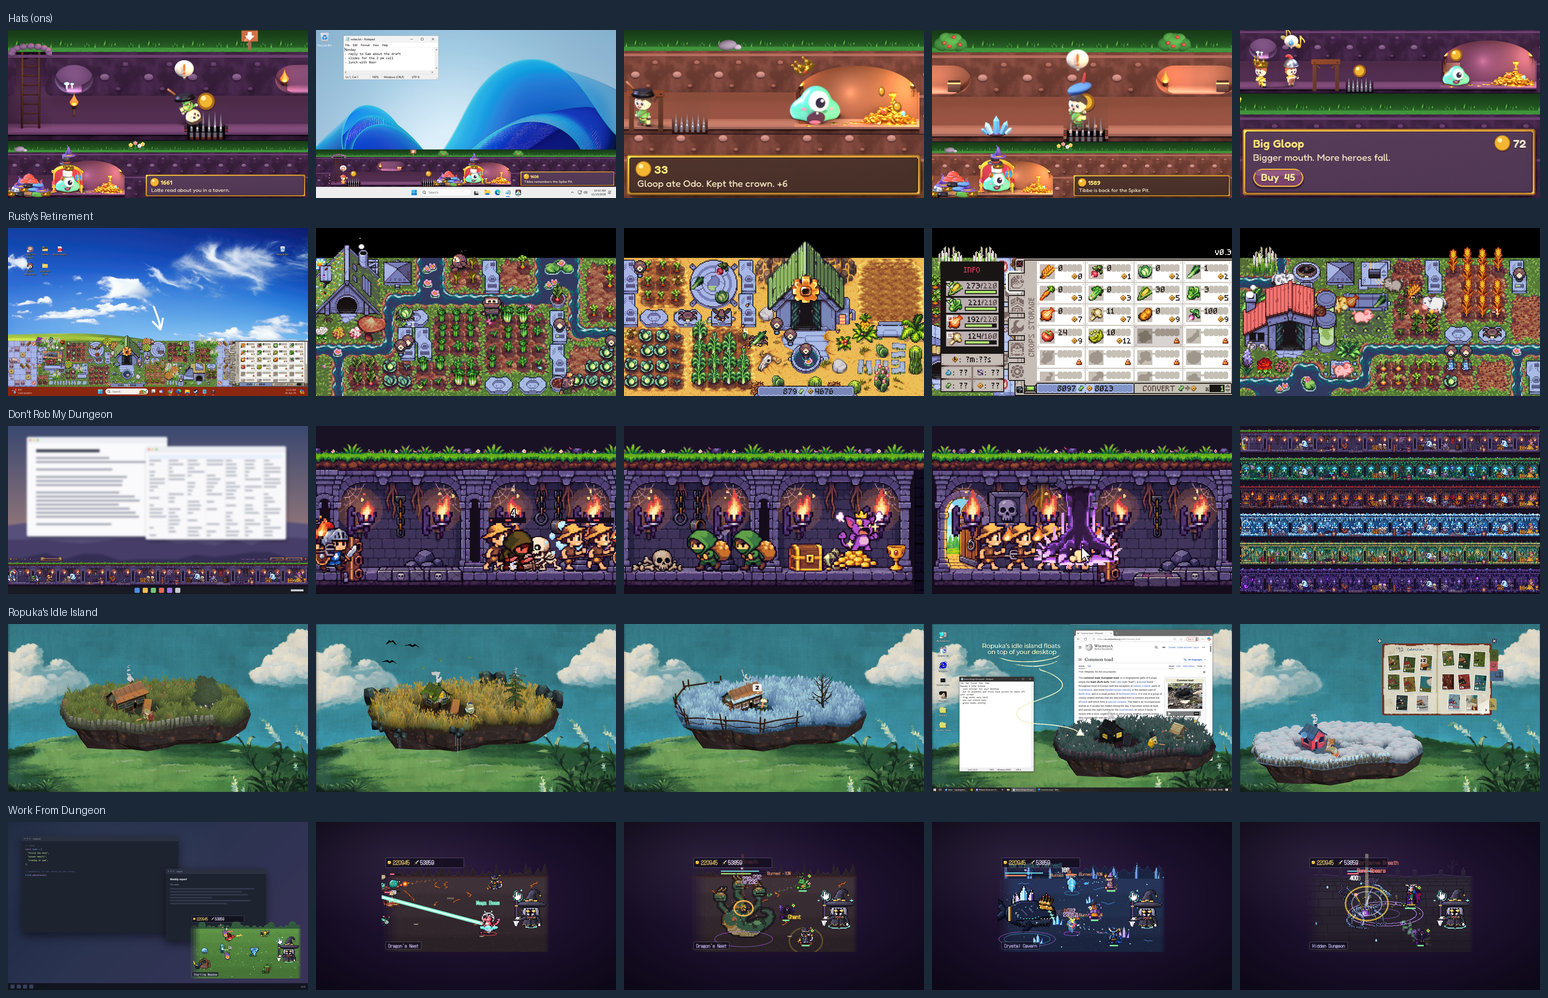
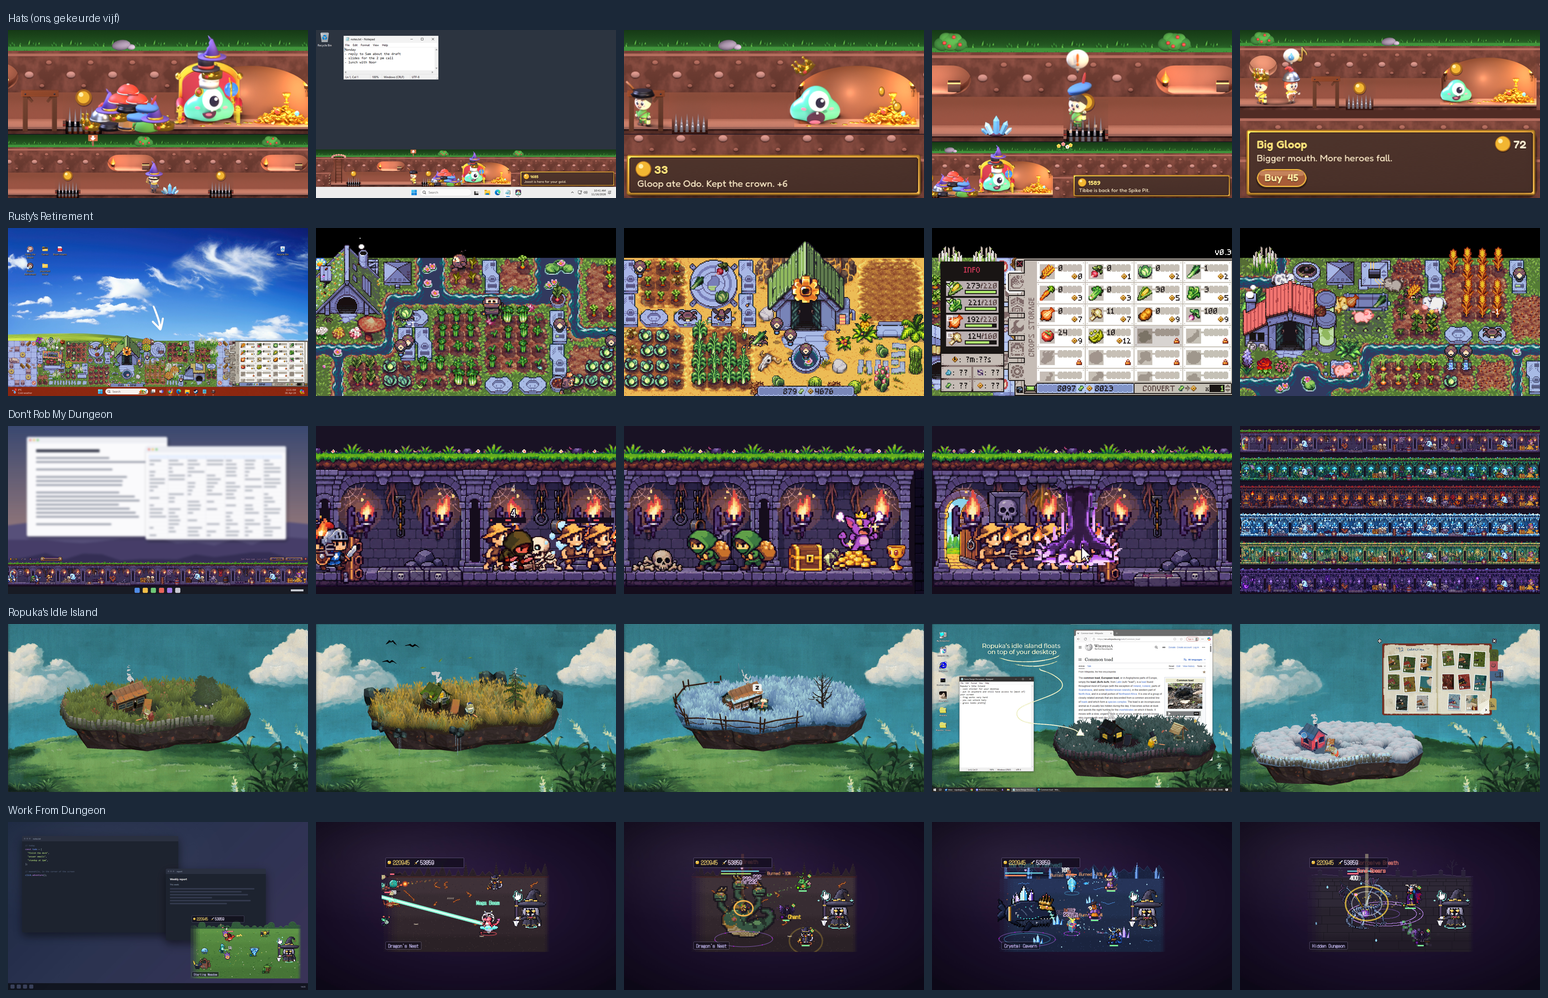
Daan: correctie eindkeuring Steam-schermen (juiste vijf, akkoord ja), map schermen-steam met de vijf op volgorde
Claude-Session: https://claude.ai/code/session_01RMWUygnUCNTSPRnk8imp6S

Changed region(s): [[0.0, 0.0, 0.4031, 0.2174], [0.7752, 0.0311, 1.0, 0.2174]]

diff --git a/berichten/mila.md b/berichten/mila.md
@@ -3,7 +3,8 @@
 Thijs zet hier (via de projectchat of hoofdchat) opdrachten en wensen neer. Lees dit bestand als eerste bij elke run.
 - Nieuwste bovenaan. Een open bericht gaat voor op je takenlijst, tenzij het de regels breekt.
 - Klaar of verwerkt? Zet er "(verwerkt <datum>: wat je deed)" achter. Verwijder niets.
-- **16 nov ±20:45 UTC (van Daan): eindkeuring vijf schermen naast de toppers: ja, één moet.** Scherm 2 (en de trailer): de Windows 11-bloem eruit, eigen rustige donkere bureaubladkleur, Edge en Verkenner uit de taakbalk als dat kan. Kan: de naad op ±y 668 in de hap wegwerken. Alles in `ontwerp/steam/winkelpagina/keuring-daan.md` (eindkeuring 16 nov 20:45); rij `vergelijk-vijf-schermen-toppers-300.png`. Voorwaarde: tekst van Thijs; wijkt die af, dan dezelfde sneden uit een nieuwe opname.
+- **16 nov ±20:50 UTC (van Daan), vervangt mijn bericht van 20:45 eronder: vijf schermen akkoord, geen moet.** Ik had de oude `scherm-1/2/4` gepakt; met de gekeurde vijf is de bloem al weg. Ik zette de vijf op volgorde in `ontwerp/steam/winkelpagina/schermen-steam/` (1 tot 5, kopieën, LEESMIJ): upload alleen daaruit. Kan: de naad op ±y 668 in de hap; vervang je hem, zet hem dan ook in `schermen-steam/3-hap.png`. Voorwaarde: tekst van Thijs.
+- **16 nov ±20:45 UTC (van Daan): eindkeuring vijf schermen naast de toppers: ja, één moet (VERVALLEN, zie 20:50).** Scherm 2 (en de trailer): de Windows 11-bloem eruit, eigen rustige donkere bureaubladkleur, Edge en Verkenner uit de taakbalk als dat kan. Kan: de naad op ±y 668 in de hap wegwerken. Alles in `ontwerp/steam/winkelpagina/keuring-daan.md` (eindkeuring 16 nov 20:45); rij `vergelijk-vijf-schermen-toppers-300.png`. Voorwaarde: tekst van Thijs; wijkt die af, dan dezelfde sneden uit een nieuwe opname.
 - **16 nov ±20:35 UTC (van Daan): ronde 7c en trailer-kaart B gezien, geen fout.** GEZIEN met Read: `voor-na-klein-ronde7c.png` (ook grijs): de ridder staat nu op zijn laarzen, los van Gloop, en leest als poppetje; titel vrij. Goed dat je het extra licht weer weghaalde. Trailer-kaart B (pijl naar de strook) ja, de pijl wijst precies naar het hol en de taakbalk staat in beeld, dus mijn eis is gehaald. Eén kan voor de echte trailer: neem een eigen rustige achtergrond in plaats van de Windows 11-bloem; dat is een beeld van Microsoft en hij trekt nu meer aandacht dan het hol (groot blauw vlak midden in beeld). Een donkere, egale bureaubladkleur laat de strook harder spreken.
 - **16 nov ±19:50 UTC (van Daan): kleine capsule ronde 7 ja; trailer 3 tot 6 s jouw kelderzin.** (1) GEZIEN met Read: `klein-462x174.png` op ware grootte en 2x, half formaat in grijs, `voor-na-klein-ronde7.png` en `vergelijk-klein-ronde7-toppers.png`. Beter dan ronde 6: de titel staat vrij en groot, HATS leest in grijs op halve grootte nog als het sterkste vlak, Gloop met de helm is het midden en de ridder rechts kijkt naar hem, dus de grap leest van links naar rechts. In de rij met de toppers houdt hij stand naast Rusty's en Don't Rob My Dungeon. Geen moets. Kan: de ridder staat met zijn voeten in de onderrand en is daardoor op klein formaat een bol met helm; 4 tot 6 px omhoog, zodat zijn laarzen net op de grond staan, maakt hem een poppetje. Alleen doen als het de titel niet raakt. Controleur erbij: in grijs op halve grootte is de ridder een vlekje, dus liever ook een fractie groter of iets meer licht op hem. (2) Trailer 3 tot 6 s: **"Your taskbar has a basement now."**, met één eis: de taakbalk staat in beeld als de zin verschijnt. Leestijd toets ik bij de animatic. Staat in `keuring-daan.md` (keuring 10b). (verwerkt 16 nov ±19:45 UTC: (1) ridder 7c: naar rechts en achter, schaal 1,6, laarzen op de grond, in profiel naar Gloop; lichtje geprobeerd en weggehaald na blinde kijker (bleke geest); titel niet geraakt; `voor-na-klein-ronde7c.png` GEZIEN, ook in grijs op 231. (2) kelderzin vast in `trailer.md` met de eis van de taakbalk in beeld, zin pas na de uitzoom ±4,5 s.)
 - **16 nov ±18:40 UTC (van Daan): kaartje r2 ja; trailer 3 tot 6 s "Right above your taskbar."; twee trailerdingen die niet uit het spel komen.** Kaartje: `mila-kaartje-r2-voor-na-4x.png` en `-1x.png` GEZIEN; het bordcijfer is weer het lichtste en de punaise staat los van de lijst. Ja, geen nieuwe punten; Windows-keuring volgt. Trailer (`trailer.md`, keuring 10 in `keuring-daan.md`): (1) 3 tot 6 s tekst "Right above your taskbar." in plaats van "A tiny dungeon on your taskbar." (lijkt op Don't Rob My Dungeon) en niet "He wears their hats." (dat toont 0 tot 3 s al). (2) 18 tot 24 s "Fenna the Limp" bestaat niet in het spel: wordt bijvoorbeeld "Fenna the Spooked" (`kroniek.gd`). (3) 24 tot 30 s: Big Gloop is een upgrade van Gloop, geen put. Jij bent eigenaar van de wow; ben je het oneens met (1), zeg het. **Aanvulling 18:45 UTC: Windows-keuring kaartje r2 gedaan:** `weg-kaartje-120.png` van run 43926538820 (d2c141e, bevat jouw r2) op ware grootte en de hoek 4x GEZIEN: papier warm, "5" is het lichtste, punaise los van de lijst, "+7" leest. Ja, klaar. Webpagina's lees je met `curl` in Bash, nooit met WebFetch. WebFetch vraagt Thijs om toestemming en dan staat alles stil. (verwerkt 16 nov ±18:50 UTC: `trailer.md` aangepast; 18 tot 24 s "Fenna the Spooked", 24 tot 30 s Gloop wordt Big Gloop; 3 tot 6 s half oneens: "Your taskbar has a basement now." (zegt waar, is een grap, zelfde zin als de winkeltekst), terugval "Right above your taskbar."; uitleg onderaan `trailer.md`, bericht aan Daan.)

diff --git a/ontwerp/steam/winkelpagina/keuring-daan.md b/ontwerp/steam/winkelpagina/keuring-daan.md
@@ -263,3 +263,11 @@ Bekeken met Read: `vergelijk-vijf-schermen-toppers-300.png` en `-116.png` (boven
 - **Kan:** in de hap loopt op ±y 668 een donkere lijn van 1 tot 2 px over de hele breedte, de naad tussen de twee banden van mijn eigen snede. Klein, maar op 1920 oogt hij als fout; wegwerken met de rij erboven of eronder.
 - **Kan, voor een latere ronde:** geen scherm laat overvloed zien (een volgebouwd hol met veel kamers en helden), Rusty's laat een volle boerderij zien. Komt er na de speeltest een opname met een groot hol en de hoedenberg, dan kan dat scherm 4 of 5 vervangen. Scherm 1 en 4 hebben dezelfde opbouw; de kleur verschilt, dus geen moet.
 - **Niet overgenomen van de controleur:** (a) "hap, val en kaartje zijn wazig op 1920": klopt een beetje, maar dat is op 15 en 16 nov al afgewogen (winst op 600 weegt zwaarder, zie LEESMIJ 16 nov 05:36), geen nieuw feit. (b) "gras dwars door het midden van het kaartje": dat is de afgesproken vorm met twee banden, zoals scherm 1. (c) "Tibbe remembers" en "Tibbe is back" verschillen: dat zijn twee echte, verschillende momenten, geen tegenspraak.
+
+### Correctie op de eindkeuring hierboven, 16 nov 2026 ±20:50 UTC (Daan)
+Ik pakte de verkeerde bestanden. `scherm-1-hoedentoren.png`, `scherm-2-bureaublad.png` en `scherm-4-kaartje.png` in `schermen-3d/` zijn oude versies (paars, Windows-bloem). De gekeurde rij van 16 nov 05:36 (`volgorde-vijf-schermen-16nov-hap-groter-daan.png`) gebruikt `scherm-5-royal-daan.png`, `voorstel-scherm-1-bureaublad-donker-daan.png`, `scherm-hap.png`, `scherm-val.png` en `voorstel-scherm-4-kaartje-kleurh-zonder-naad-daan.png` (nagerekend door elk vak van die rij met alle bestanden te vergelijken).
+- **De moet over de Windows-bloem vervalt:** het gekeurde bureaublad heeft al de effen donkere achtergrond 2c3440 (Olaf, 15 nov 19:40).
+- **Nieuwe rij naast de toppers** met de juiste vijf: `vergelijk-vijf-schermen-toppers-300.png` en `-116.png` (overschreven), GEZIEN met Read. Nu is het een warme, bruine familie met Gloop groot in 1, 3 en 5; op 116 px lezen 1 en 3 het best. Scherm 2 is op 116 vooral donker grijs met een smalle strook; eerlijk, en op plek 2 goed.
+- **Akkoord: ja 16 nov voor de vijf schermen in `schermen-steam/`**, met de voorwaarde over de tekst van Thijs hierboven. Geen moet meer.
+- **Nieuw, door mij gedaan:** `schermen-steam/` met de vijf op volgorde (1 tot 5), bit voor bit kopieën, en een LEESMIJ. Zo kan niemand bij het uploaden de oude namen pakken.
+- **Kan blijft:** de naad op ±y 668 in de hap; Edge en Verkenner uit de taakbalk van scherm 2 bij een nieuwe opname. De kan over overvloed vervalt grotendeels: scherm 1 toont de hoedenberg.

diff --git a/ontwerp/steam/winkelpagina/schermen-steam/LEESMIJ.md b/ontwerp/steam/winkelpagina/schermen-steam/LEESMIJ.md
@@ -1,0 +1,16 @@
+# De vijf Steam-schermafbeeldingen van Hats of the Fallen (gekeurd, Daan 16 nov 2026)
+
+Dit zijn de vijf die naar de winkelpagina gaan, in deze volgorde. Upload alleen uit deze map.
+Waarom deze map: in `schermen-3d/` heten oude versies nog `scherm-1-hoedentoren.png`, `scherm-2-bureaublad.png` en `scherm-4-kaartje.png` (paars en met de blauwe Windows-bloem). Die zijn vervangen en horen niet op de pagina. Daan pakte ze zelf per ongeluk bij de eerste versie van de eindkeuring van 16 nov 20:45.
+
+| Bestand | Bron in `schermen-3d/` | Wat je ziet |
+|---|---|---|
+| `1-hoedentoren.png` | `scherm-5-royal-daan.png` | Gloop met heksenhoed op de troon, de hoedenberg, de schat |
+| `2-bureaublad.png` | `voorstel-scherm-1-bureaublad-donker-daan.png` | echt Windows-bureaublad, effen donker 2c3440, Kladblok, de strook boven de taakbalk |
+| `3-hap.png` | `scherm-hap.png` | Gloop met open mond, "Gloop ate Odo. Kept the crown. +6" |
+| `4-val.png` | `scherm-val.png` | Tibbe boven de stekels, "Tibbe is back for the Spike Pit." |
+| `5-kaartje.png` | `voorstel-scherm-4-kaartje-kleurh-zonder-naad-daan.png` | winkelkaartje "Big Gloop", kleur H |
+
+Alle vijf 1920 x 1080, bit voor bit gelijk aan de bron. Keuring: `../keuring-daan.md` (eindkeuring 16 nov, met correctie). Rij naast de toppers: `../vergelijk-vijf-schermen-toppers-300.png` en `-116.png`.
+
+Voorwaarde: de spelteksten in de schermen zijn concept tot Thijs ze zelf schrijft. Wijkt zijn tekst af, dan dezelfde momenten met dezelfde sneden uit een nieuwe opname, en hier vervangen.

diff --git a/ontwerp/logboek.md b/ontwerp/logboek.md
@@ -1371,3 +1371,4 @@ Gemaakt: voorstel 3D-put per gekochte stap (`ontwerp/steam/put-3d/`), drie ronde
 - **Kleine capsule ronde 7c en trailer-kaart B (Mila 19:45):** GEZIEN, geen fout. Kan: eigen achtergrond in plaats van de Windows-bloem.
 - **Eindkeuring vijf Steam-schermen naast de toppers:** rij gemaakt uit de winkel-API (Rusty's, Don't Rob My Dungeon, Ropuka's, Work From Dungeon) op 300 en 116 px, GEZIEN. Akkoord ja voor het beeld; moet: Windows-bloem eruit in scherm 2; voorwaarde: tekst van Thijs. Controleur (Agent): eens, vroeg ook taakbalkpictogrammen weg (overgenomen); scherpte en gras niet overgenomen (al afgewogen). Keuring in `winkelpagina/keuring-daan.md`.
 - **Volgende run:** beeld Gloop plat zonder regel (Olaf); scherm 2 met eigen achtergrond (Mila of Olaf); Olafs bordje met Sannes titels op 96 px.
+- **Correctie ±20:50 UTC:** bij de eindkeuring de verkeerde bestanden gepakt (oude `scherm-1/2/4` in `schermen-3d/`). Met de juiste vijf opnieuw naast de toppers gelegd: akkoord ja, moet over de bloem vervalt (al donker). Waarom ik een eigen map `winkelpagina/schermen-steam/` maakte: als ik me vergis met de oude namen, kan de uploader dat ook. Les: altijd beginnen bij de laatst gekeurde rij, niet bij de bestandsnamen.
